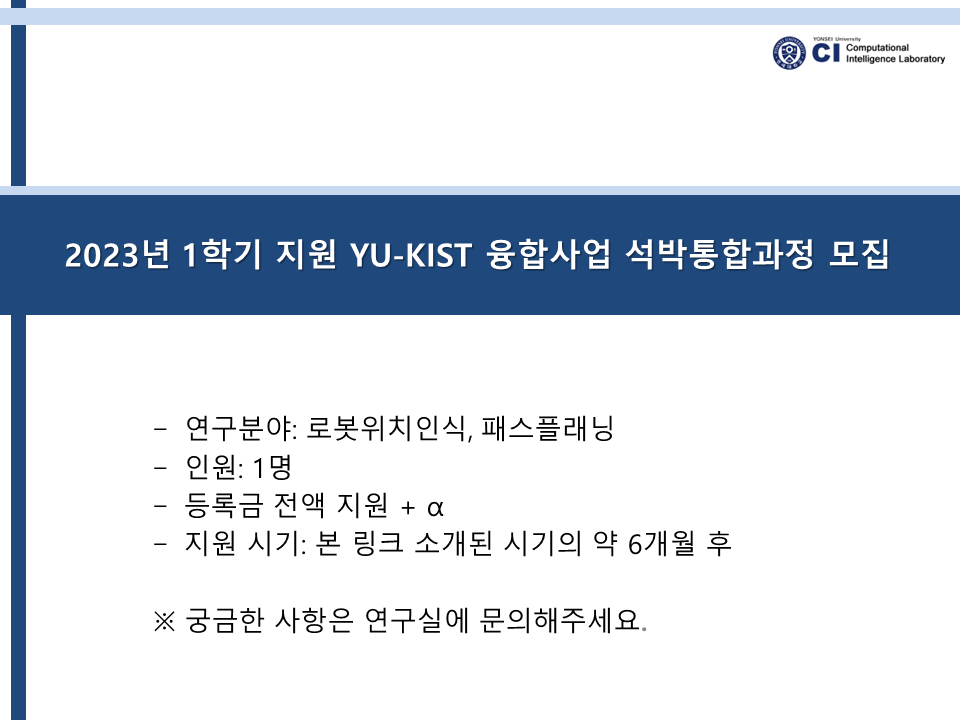
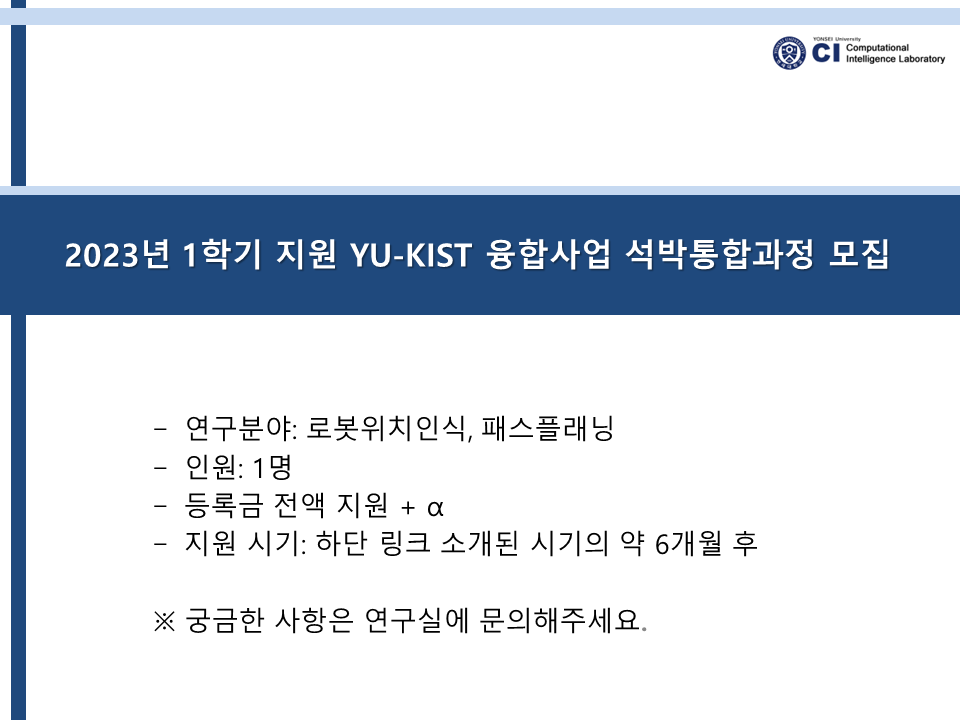
Change YU-KIST recruite files

Changed region(s): [[0.3125, 0.7333, 0.7812, 0.7944]]

diff --git a/_pages/home.md b/_pages/home.md
@@ -11,9 +11,9 @@ We are a dynamic research group at the [School of Electrical and Electronic Engi
 
 <div markdown="0" class="container-fluid d-none d-sm-block" style="text-align:center">
   <p><img src="{{ site.url }}{{ site.baseurl }}/images/recruite/2023-1_YU-KIST.png" style="max-width: 75%"></p>
-  <!--<h3>https://ee.yonsei.ac.kr/ee/community/academic_notice.do?mode=view&articleNo=140057&article.offset=0&articleLimit=10&srSearchVal=KIST</h3>-->
 </div>
 <br/>
+[RECRUITE LINK](https://ee.yonsei.ac.kr/ee/community/academic_notice.do?mode=view&articleNo=140057&article.offset=0&articleLimit=10&srSearchVal=KIST)
 
 <!-- <div class="container-fluid d-none d-sm-block" style="text-align:center">
   <p><img src="{{ site.url }}{{ site.baseurl }}/images/recruite/2022-2_YU-KIST.png" style="max-width: 100%"></p>
